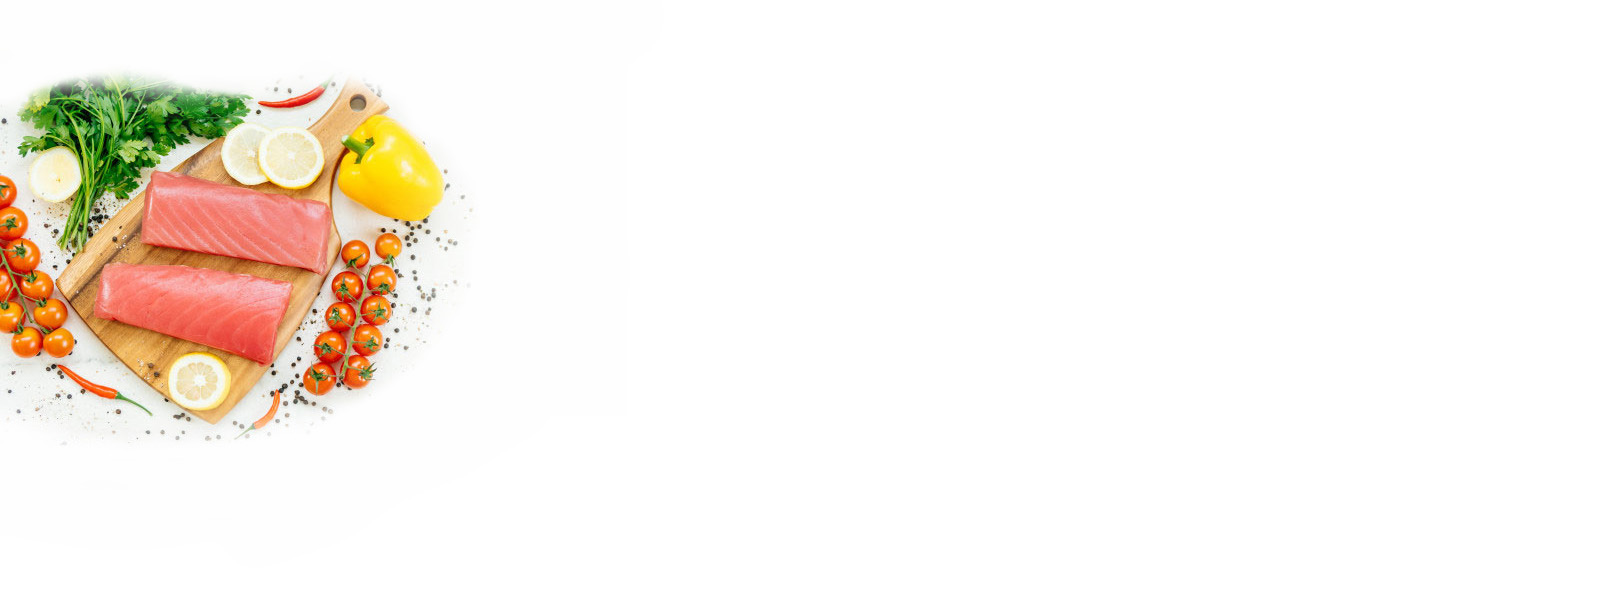
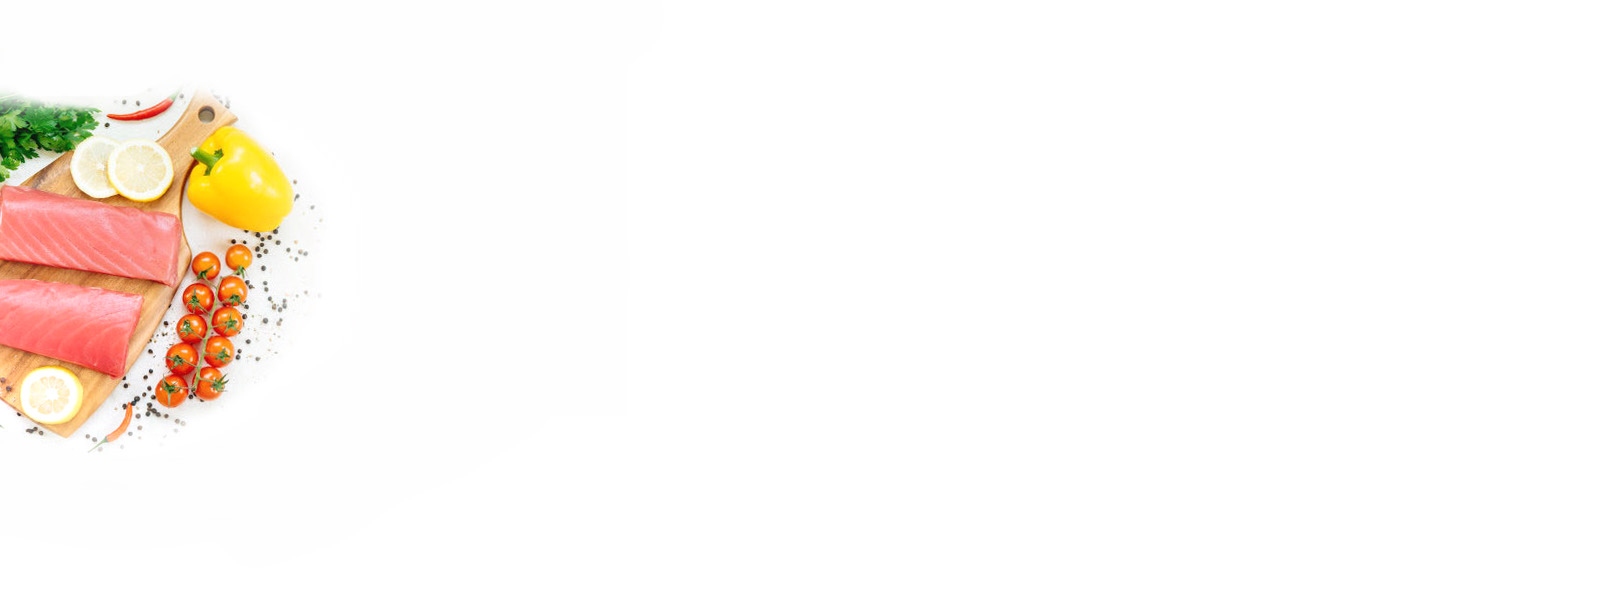
Correcting

Changed region(s): [[0.0, 0.12, 0.2812, 0.75]]

diff --git a/index.html b/index.html
@@ -64,7 +64,7 @@
                     </br>
                     <h7>You're not hungry yet?</h7>
                     <h2 style="font-size:33px;">PRECIOUS TASTE!</h2>
-                    <span class="icon-menu"></span>
+                    <div class="icon-line"><div class=" icon-menu" style="width:45px; background-color:#ffffff;"></div></div>
                     </br>
                     <h4>Lorem ipsum dolor sit amet, consectetur adipiscing elit. Morbi facilisis pharetra odio, gravida dapibus mi vulputate</h4>
                 </div>
@@ -129,9 +129,9 @@
                             <h2 style="font-size:33px;">NEWS & EVENTS</h2>
                 </div>
                 <div class="item-6">
-                        <div style="border-right:1px solid #aaa; padding-top: 30px;"><span class="figure-content-5"><a>November, 27</a></span></div>
+                        <div style="border-right:1px solid #e2e2e2; padding-top: 30px;"><span class="figure-content-5"><a>November, 27</a></span></div>
                         </br>
-                        <div style="border-right:1px solid #aaa;"><span class="figure-content-5"><a>November, 13</a></span></div>
+                        <div style="border-right:1px solid #e2e2e2; padding-top: 30px;"><span class="figure-content-5"><a>November, 13</a></span></div>
                 </div>
                 <div class="item-7">
                         <div class="grid-container-5">
@@ -146,9 +146,9 @@
                 </div>
                 <div class="item-8">
 
-                            <div style="border-left:1px solid #aaa; padding-top: 25px;"><div class="content-5-text-2"><a>READ MORE</a></div></div>
+                            <div style="border-left:1px solid #e2e2e2; padding-top: 25px; padding-left: 55px;"><div class="content-5-text-2"><a>READ MORE</a></div></div>
                             </br>
-                            <div style="border-left:1px solid #aaa;"><div class="content-5-text-2"><a>READ MORE</a></div></div>
+                            <div style="border-left:1px solid #e2e2e2;  padding-top: 25px; padding-left: 55px;"><div class="content-5-text-2"><a>READ MORE</a></div></div>
 
             </div>
                 <div class="item-9">

diff --git a/css/style.css b/css/style.css
@@ -120,6 +120,22 @@ img{
     z-index: 1;
 }
 
+.icon-line {
+    width:88%;
+    text-align:center;
+    margin-bottom: -15px;
+    border-bottom: 2px solid #f0f0f0;
+    line-height:0.1em;
+    margin:20px 0 0 28px;
+}
+.icon-line div {
+    position:absolute;
+    margin-top: -10px;
+    left:50%;
+    margin-left:-23px;
+    background: #fff;
+}
+
 .navbar{
 	width: 750px;
     height: 80px;
@@ -368,6 +384,7 @@ clip-path: polygon(0 0, 65% 0, 100% 100%, 0% 100%);
     padding: .5em;
     padding-top:15px;
     text-align: center;
+    /*border-left:1px solid #e4e2e2;*/
     background: transparent url(http://i46.tinypic.com/21c5h93.png) left center no-repeat;
    /* when width of window will be like smartphone and make all in 1 line
    border-top: 1px solid lightgray;
@@ -418,7 +435,7 @@ clip-path: polygon(0 0, 65% 0, 100% 100%, 0% 100%);
     display: grid;
     min-height: 600px;
     grid-template-columns: repeat(auto-fill, minmax(2fr, 1fr, 2fr));
-    background: url("../img/content-3.png");
+    background: url("../img/content-4.png");
     background-position: bottom right;
     background-repeat:no-repeat;
     background-size: cover ;
@@ -506,21 +523,20 @@ margin: 0;
     display: grid;
     min-width: 300px;
     margin: 0;
-    padding-left: calc(15% - 50px);
+    padding-left: calc(30% - 50px);
 }
 
 .item-7{
     display: grid;
-    padding:0px 50px 0px 55px;
+    padding:0px 30px 0px 55px;
     margin: 0;
 }
 
 .item-8{
-    text-align: center;
     display: grid;
     min-width: 300px;
     margin: 0;
-    padding-right: calc(15% - 50px);
+    padding-right: calc(30% - 50px);
 }
 
 .item-9 {
@@ -555,7 +571,7 @@ margin: 0;
 }
 
 .item-11{
-    margin-right: 50px;
+    margin-right: 60px;
 }
 
 .item-11 li{
@@ -675,7 +691,7 @@ margin: 0;
     position: relative;
     float: left;
     width: 15%;
-    border-top: 2px solid lightgrey;
+    border-top: 2px solid #f0f0f0;
 }
 
 #menu-icon {

diff --git a/icomoon-fonts/style-font.css b/icomoon-fonts/style-font.css
@@ -40,6 +40,7 @@
   color: #FFC53C;
   content: "\e902";
 }
+
 .icon-phone-call:before {
   font-size: 20px;
   font-weight: bold;
